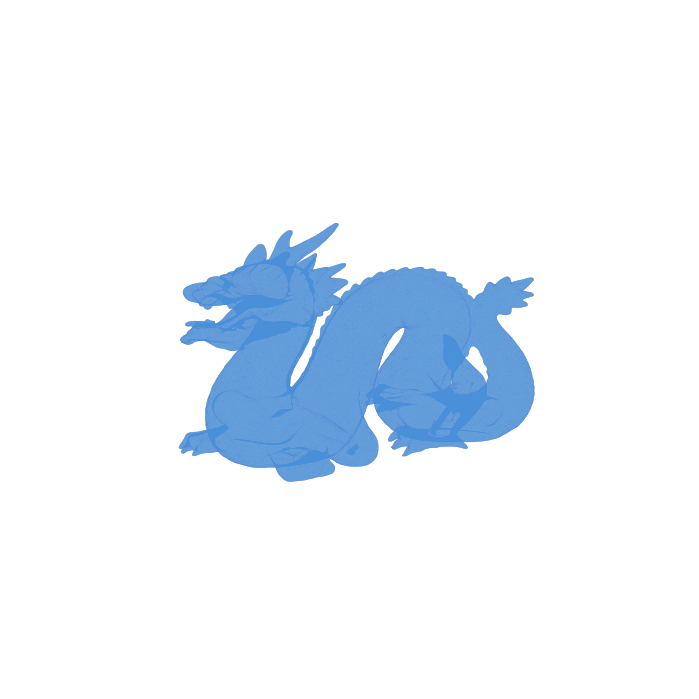
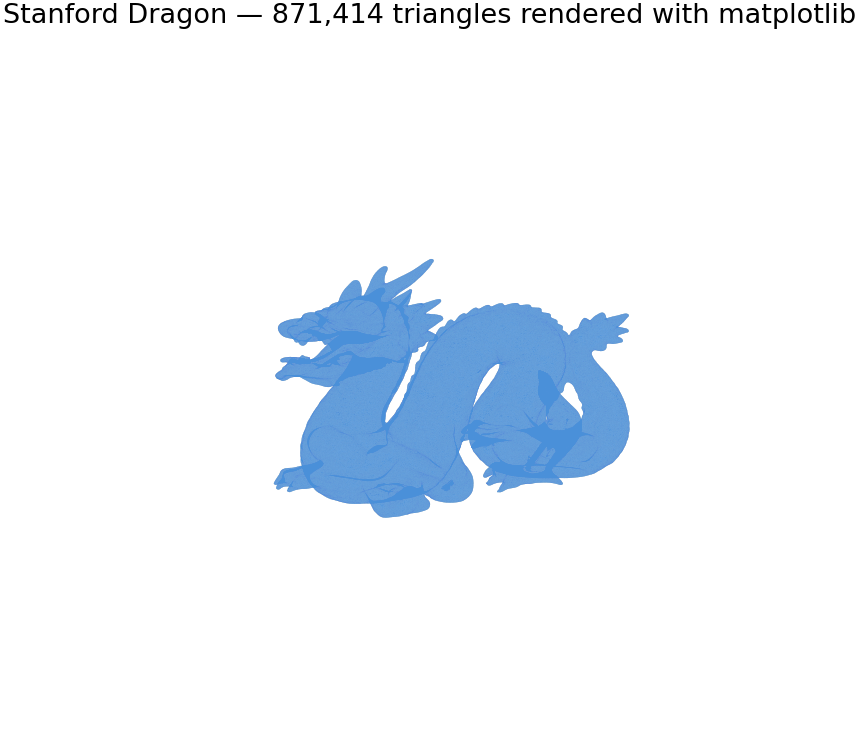
docs: add matplotlib attribution to Dragon render title

Changed region(s): [[0.2403, 0.3004, 0.7811, 0.721], [0.0, 0.0, 1.0, 0.0601]]

diff --git a/benchmarks/benchmark_ascii_read.py b/benchmarks/benchmark_ascii_read.py
@@ -145,6 +145,14 @@ def render_dragon(output_path: pathlib.Path) -> None:
     axes.set_axis_off()
     axes.view_init(elev=15, azim=-120)
 
+    tri_count = len(dragon.data)
+    figure.suptitle(
+        f'Stanford Dragon \u2014 {tri_count:,} triangles'
+        f' rendered with matplotlib',
+        fontsize=13,
+        y=0.92,
+    )
+
     output_path.parent.mkdir(parents=True, exist_ok=True)
     plt.savefig(
         output_path,
